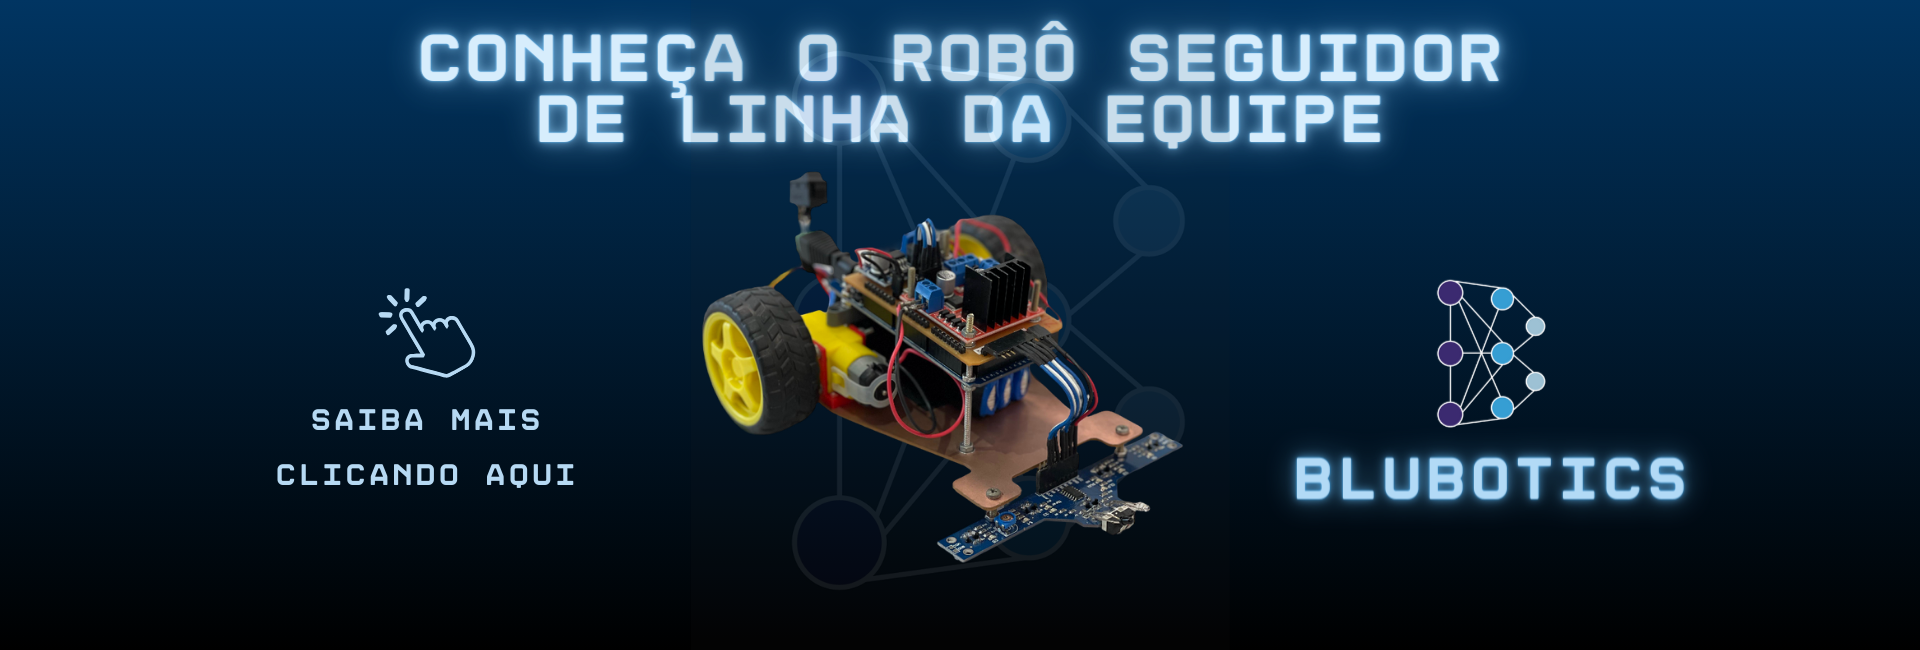
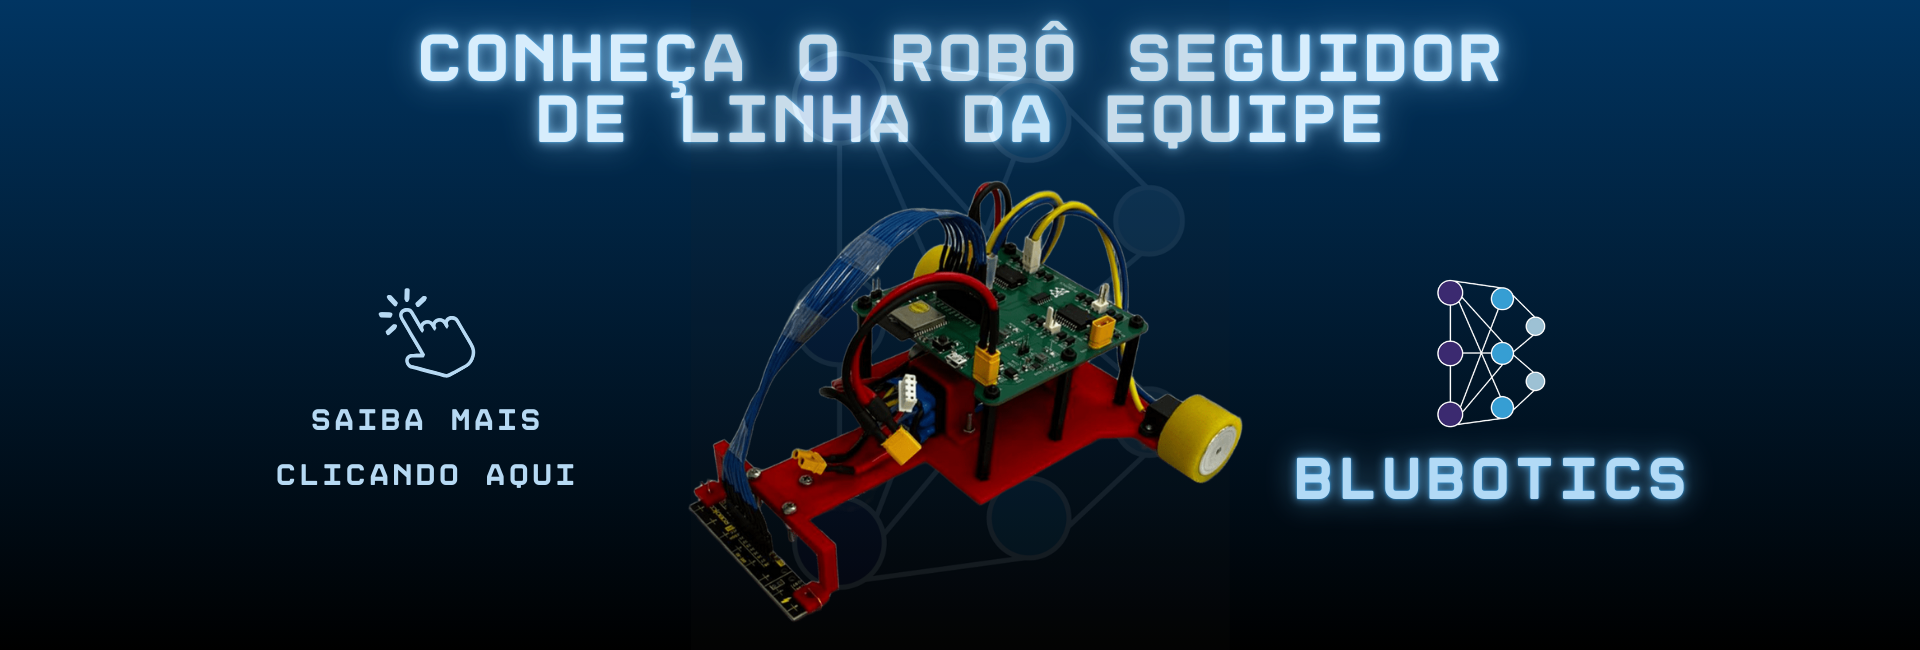
Update profile 25.1

Changed region(s): [[0.3438, 0.2462, 0.6562, 0.9538], [0.75, 0.5231, 0.7812, 0.5846], [0.75, 0.4308, 0.7812, 0.4615]]

diff --git a/src/components/pages/DataMembers.js b/src/components/pages/DataMembers.js
@@ -1,11 +1,16 @@
 import p1 from '../../images/profile/GabrielM.png'
 import p2 from '../../images/profile/BrunoY.jpeg'
-import p3 from '../../images/profile/MariaC.jpeg'
-import p4 from '../../images/profile/Leo.jpeg'
 import p5 from '../../images/profile/LuziaF.jpeg'
 import p6 from '../../images/profile/LuccaS.jpg'
 import p7 from '../../images/profile/LucaM.jpeg'
-
+import p8 from '../../images/profile/MarianneGaertner.png'
+import p9 from '../../images/profile/Alejandro.png'
+import p10 from '../../images/profile/SharaMonique.png'
+import p11 from '../../images/profile/AnaCaputo.png'
+import p12 from '../../images/profile/ValdirCampolino.png'
+import p13 from '../../images/profile/MarcusVinicius.png'
+import p14 from '../../images/profile/ErikaIsabelly.png'
+import p15 from '../../images/profile/MariaManoela.png'
 
 import ppic from '../../images/profilepic.png'
  
@@ -13,84 +18,98 @@ const data = [
     {
         src: p1,
         name: 'Gabriel Mariano',
-        fnc: 'Corporativo',
+        fnc: 'Líder Corporativo',
         linkedin: 'https://www.linkedin.com/in/gabrielsnts/',
         insta: 'https://www.instagram.com/gmgoncalvess/'
     },
     {
         src: p2,
         name: 'Bruno Yuri',
-        fnc: 'Programador',
+        fnc: 'Corporativo - ADM',
         linkedin: 'https://www.linkedin.com/in/bruno-igarashi-5a8084227/',
         insta: 'https://www.instagram.com/bruno_igarashi/'
     },
     {
-        src: p3,
-        name: 'Maria Clara',
-        fnc: 'Projetista',
-        linkedin: '',
-        insta: 'https://www.instagram.com/mariaclaracmo/'
-    },
-    {
-        src: p4,
-        name: 'Leonardo Schmitt',
-        fnc: 'Projetista',
-        linkedin: 'https://www.linkedin.com/in/leonardo-schmitt-controle-automacao/',
-        insta: 'https://www.instagram.com/spttleonardo/'
-    },
-    {
         src: p5,
         name: 'Luzia Fontanazi',
-        fnc: 'Projetista',
+        fnc: 'Líder Robô Combate',
         linkedin: 'www.linkedin.com/in/lf-b1a96017b',
         insta: 'https://www.instagram.com/luzia_fontanezi?utm_source=qr&igsh=bXNuend4bjVkbXZk'
     },
     {
         src: p6,
         name: 'Lucca Sardá',
-        fnc: 'Programador',
+        fnc: 'Seguidor de Linha',
         linkedin: 'https://www.linkedin.com/in/lucca-sard%C3%A1-58646b237/',
         insta: 'https://www.instagram.com/luccasarda/'
     },
     {
         src: p7,
         name: 'Luca Moreira',
-        fnc: 'Corporativo',
+        fnc: 'Segidor de Linha',
         linkedin: 'https://www.linkedin.com/in/luca-moreira/',
         insta: 'https://www.instagram.com/lucamoreira_of/'
     },
     {
-        src: ppic,
+        src: p8,
         name: 'Marianne Gaertner',
-        fnc: 'Programadora',
+        fnc: 'Vice Capitã / Líder Seguidor',
         linkedin: 'www.linkedin.com/in/mariannegaertner',
         insta: 'https://www.instagram.com/mgmariannegaertner?igsh=bXl3eHk4ODJkcHZ4'
     },
     {
-        src: ppic,
-        name: 'João Pedro',
-        fnc: 'Projetista',
-        linkedin: '',
-        insta: ''
-    },
-    {
-        src: ppic,
+        src: p9,
         name: 'Alejandro Ramos',
-        fnc: 'Corporativo',
+        fnc: 'Corporativo - MKT',
         linkedin: 'https://www.linkedin.com/in/alejandro-silveira-ramos-6b792a203/',
         insta: 'https://www.instagram.com/ale3silver/'
     },
     {
-        src: ppic,
-        name: 'João Siemon',
-        fnc: 'Projetista',
+        src: p10,
+        name: 'Shara Monique',
+        fnc: 'Robô Combate',
+        linkedin: 'https://www.artstation.com/sharaschwartz',
+        insta: 'https://www.instagram.com/__sharinha?igsh=MW9vcmtteHRzNG9jdA=='
+    },    
+    {
+        src: p11,
+        name: 'Ana Caputo',
+        fnc: 'Corporativo - MKT',
         linkedin: '',
         insta: ''
-    },
+    },    
+    {
+        src: p12,
+        name: 'Valdir Campolino',
+        fnc: 'Seguidor de Linha',
+        linkedin: '',
+        insta: ''
+    },    
+    {
+        src: p13,
+        name: 'Marcus Vinícius',
+        fnc: 'Robô Combate',
+        linkedin: '',
+        insta: ''
+    },        
+    {
+        src: p14,
+        name: 'Erika Isabelly',
+        fnc: 'Seguidor de Linha',
+        linkedin: '',
+        insta: ''
+    },        
+    {
+        src: p15,
+        name: 'Maria Manoela',
+        fnc: 'Corporativo - MKT',
+        linkedin: '',
+        insta: ''
+    },        
     {
         src: ppic,
-        name: 'Arthur Gonçalves',
-        fnc: 'Programador',
+        name: 'Nicholas Gemini',
+        fnc: 'Robô Combate',
         linkedin: '',
         insta: ''
     },

diff --git a/src/components/pages/Robot.js b/src/components/pages/Robot.js
@@ -16,11 +16,13 @@ function Robot({ projects }) {
             ))}
 
             <div>
-                <h1>Robô Seguidor de Linha</h1>
+                {/* <h1>Robô Seguidor de Linha</h1>
                 <p>Primeiro desenvolvimento da equipe. O seguidor de linha conta
                     com um Arduino Mega e um Shield de circuito impresso desenvolvido
                     pela própria equipe.
-                </p>
+                </p> */}
+                <h1></h1>
+                <p></p>
             </div>
         </div>
     )

diff --git a/src/components/pages/DataProjects.js b/src/components/pages/DataProjects.js
@@ -1,5 +1,6 @@
 import seguidor1 from '../../images/robo/RobotSegLinha.png'
 import sumoLego1 from '../../images/robo/tachi-AI.png'
+import perseguidor from '../../images/robo/Perseguidor.png'
 import generiCRobot from '../../images/robo/GenericRobot.png'
 
 const data = [
@@ -19,7 +20,7 @@ const data = [
         role: 'Ant Weight'
     },
     {
-        src: generiCRobot,
+        src: perseguidor,
         name: 'Runner',
         role: 'Perseguidor de Linha'
     },

diff --git a/src/components/pages/Projects.module.css b/src/components/pages/Projects.module.css
@@ -61,6 +61,7 @@
     color: #a8a9b9;
     text-align: center;
     margin-bottom: 5%;
+    font-size: 1em;
 }
 
 .card {
